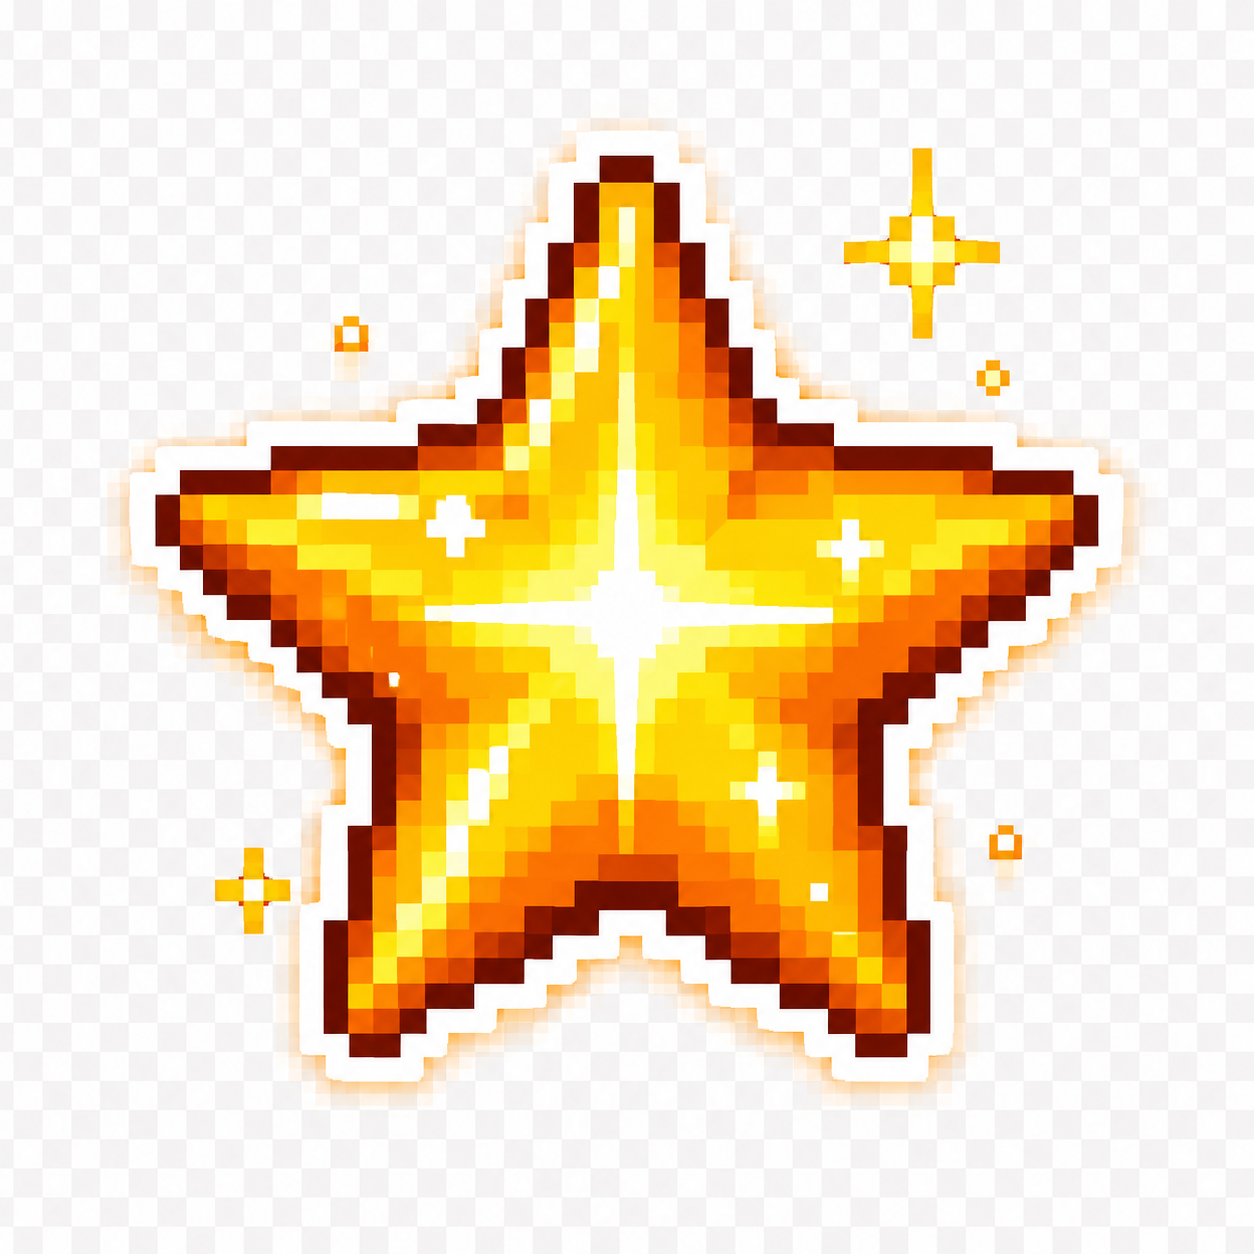
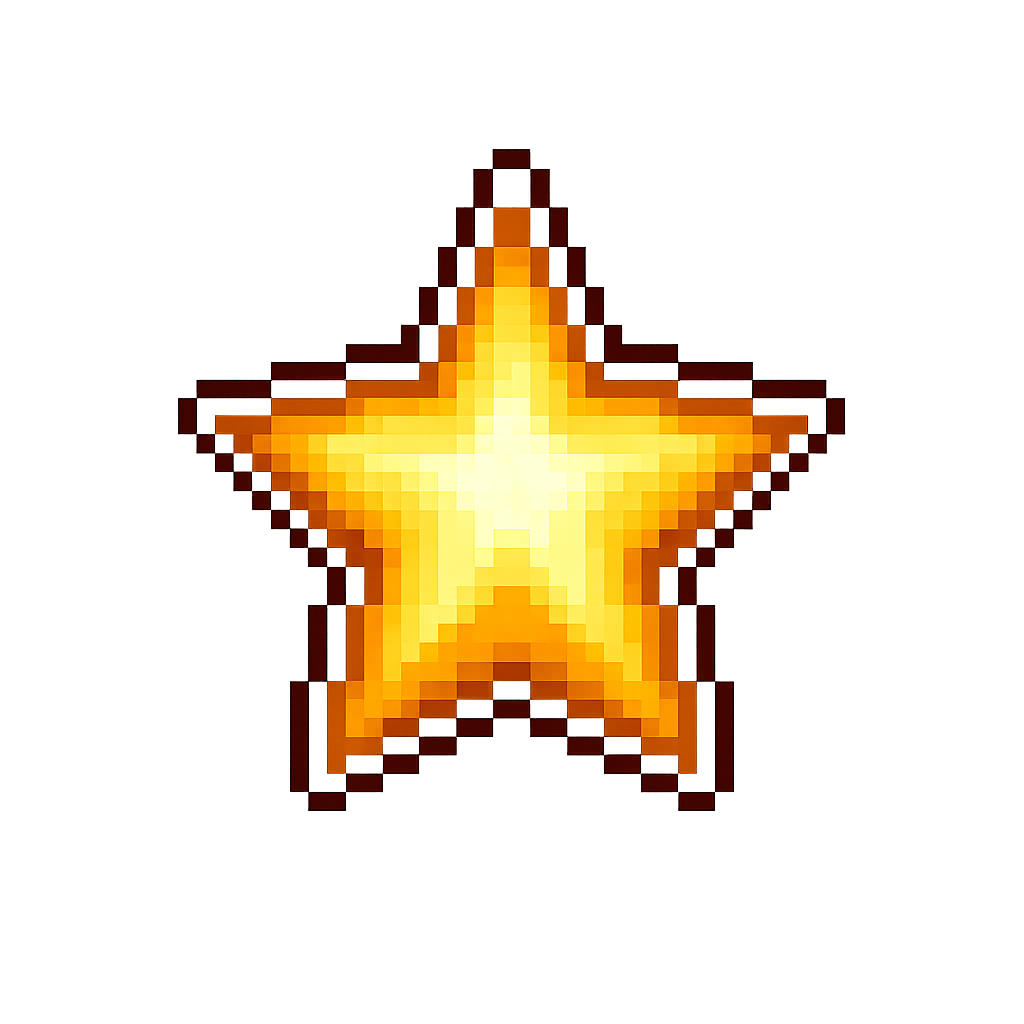
별 이미지 변경, 사운드 추가

diff --git a/script.js b/script.js
@@ -23,6 +23,8 @@ const startButton = document.getElementById('startButton');
 const restartButton = document.getElementById('restartButton');
 const progressButton = document.getElementById('progressButton');
 const soundButton = document.getElementById('soundButton');
+const hudSoundButton = document.getElementById('hudSoundButton');
+const soundButtons = [soundButton, hudSoundButton].filter(Boolean);
 const upgradeCards = document.getElementById('upgradeCards');
 const resultTitle = document.getElementById('resultTitle');
 const resultText = document.getElementById('resultText');
@@ -209,94 +211,140 @@ const upgrades = [
 ];
 
 const audio = {
-  ctx: null,
   enabled: true,
-  ambienceTimer: null,
+  initialized: false,
+  unlocked: false,
+  tracks: {},
   volume: 0.7,
+  bgmVolume: 0.3,
+};
+
+const audioSources = {
+  bgm: 'sounds/bgm.mp3',
+  start: 'sounds/start.mp3',
+  star: 'sounds/star.mp3',
+  upgrade: 'sounds/upgrade.mp3',
+  clear: 'sounds/clear.mp3',
+  nextLevel: 'sounds/next level.mp3',
+  fail: 'sounds/fail.mp3',
+  over: 'sounds/over.mp3',
+};
+
+const soundVolumes = {
+  bgm: audio.bgmVolume,
+  start: 0.85,
+  star: 0.9,
+  upgrade: 0.85,
+  clear: 0.85,
+  nextLevel: 0.85,
+  fail: 0.85,
+  over: 0.9,
 };
 
 function initAudio() {
-  if (audio.ctx) return;
-  audio.ctx = new (window.AudioContext || window.webkitAudioContext)();
+  if (audio.initialized) return;
+
+  Object.entries(audioSources).forEach(([name, src]) => {
+    const track = new Audio(src);
+    track.preload = 'auto';
+    track.loop = name === 'bgm';
+    track.volume = getSoundVolume(name);
+    audio.tracks[name] = track;
+  });
+
+  audio.initialized = true;
 }
 
 function resumeAudio() {
   initAudio();
-  if (audio.ctx.state === 'suspended') audio.ctx.resume();
+  audio.unlocked = true;
 }
 
 function setSoundButtonText() {
-  soundButton.textContent = audio.enabled ? 'SOUND ON' : 'SOUND OFF';
-}
-
-function playTone({ frequency = 440, duration = 0.2, type = 'square', volume = 0.08, slideTo = null }) {
-  if (!audio.enabled) return;
-  resumeAudio();
-
-  const now = audio.ctx.currentTime;
-  const oscillator = audio.ctx.createOscillator();
-  const gain = audio.ctx.createGain();
-
-  oscillator.type = type;
-  oscillator.frequency.setValueAtTime(frequency, now);
-  if (slideTo) oscillator.frequency.exponentialRampToValueAtTime(slideTo, now + duration);
-
-  gain.gain.setValueAtTime(0.0001, now);
-  gain.gain.exponentialRampToValueAtTime(volume * audio.volume, now + 0.02);
-  gain.gain.exponentialRampToValueAtTime(0.0001, now + duration);
-
-  oscillator.connect(gain);
-  gain.connect(audio.ctx.destination);
-  oscillator.start(now);
-  oscillator.stop(now + duration + 0.03);
-}
-
-function playHitSound() { playTone({ frequency: 150, slideTo: 70, duration: 0.18, type: 'sawtooth', volume: 0.12 }); }
-function playStageClearSound() {
-  playTone({ frequency: 392, duration: 0.1, type: 'square', volume: 0.08 });
-  setTimeout(() => playTone({ frequency: 523, duration: 0.12, type: 'square', volume: 0.08 }), 90);
-  setTimeout(() => playTone({ frequency: 784, duration: 0.18, type: 'square', volume: 0.08 }), 180);
-}
-function playStageFailSound() {
-  playTone({ frequency: 180, slideTo: 90, duration: 0.45, type: 'triangle', volume: 0.12 });
-  setTimeout(() => playTone({ frequency: 100, slideTo: 55, duration: 0.35, type: 'sawtooth', volume: 0.08 }), 130);
-}
-function playHoverSound() { playTone({ frequency: 620, duration: 0.045, type: 'square', volume: 0.035 }); }
-function playSelectSound() { playTone({ frequency: 720, duration: 0.08, type: 'square', volume: 0.06 }); }
-function playSaveSound() {
-  playTone({ frequency: 523, duration: 0.08, type: 'square', volume: 0.06 });
-  setTimeout(() => playTone({ frequency: 659, duration: 0.08, type: 'square', volume: 0.06 }), 80);
-}
-function playStarSound() {
-  playTone({ frequency: 880, duration: 0.07, type: 'square', volume: 0.055 });
-  setTimeout(() => playTone({ frequency: 1175, duration: 0.08, type: 'square', volume: 0.045 }), 60);
-}
-function playPillowSound() { playTone({ frequency: 520, slideTo: 760, duration: 0.09, type: 'triangle', volume: 0.055 }); }
-function playPillowHitSound() { playTone({ frequency: 980, slideTo: 620, duration: 0.08, type: 'square', volume: 0.05 }); }
-function playSpecialWarningSound() {
-  playTone({ frequency: 260, slideTo: 170, duration: 0.2, type: 'square', volume: 0.07 });
-}
-
-function startAmbience() {
-  stopAmbience();
-  if (!audio.enabled) return;
-  resumeAudio();
-
-  audio.ambienceTimer = setInterval(() => {
-    if (gameState === 'playing' || gameState === 'upgrade') {
-      const base = Math.random() > 0.5 ? 196 : 220;
-      playTone({ frequency: base, slideTo: base * 0.72, duration: 0.65, type: 'triangle', volume: 0.025 });
-      setTimeout(() => playTone({ frequency: base / 2, duration: 0.35, type: 'sine', volume: 0.018 }), 220);
+  soundButtons.forEach((button) => {
+    if (button === hudSoundButton) {
+      button.textContent = audio.enabled ? '🔊' : '🔇';
+      button.setAttribute('aria-label', audio.enabled ? '사운드 끄기' : '사운드 켜기');
+    } else {
+      button.textContent = audio.enabled ? 'SOUND ON' : 'SOUND OFF';
     }
-  }, 850);
+  });
 }
 
-function stopAmbience() {
-  if (audio.ambienceTimer) {
-    clearInterval(audio.ambienceTimer);
-    audio.ambienceTimer = null;
-  }
+function getSoundVolume(name) {
+  return (soundVolumes[name] ?? 1) * audio.volume;
 }
+
+function updateAudioVolumes() {
+  initAudio();
+  Object.entries(audio.tracks).forEach(([name, track]) => {
+    track.volume = getSoundVolume(name);
+  });
+}
+
+function resetTrack(track) {
+  track.pause();
+  try {
+    track.currentTime = 0;
+  } catch (error) {}
+}
+
+function playSound(name, { restart = true } = {}) {
+  if (!audio.enabled) return;
+  resumeAudio();
+
+  const track = audio.tracks[name];
+  if (!track) return;
+
+  track.volume = getSoundVolume(name);
+  if (restart) {
+    resetTrack(track);
+  }
+
+  const playPromise = track.play();
+  if (playPromise) playPromise.catch(() => {});
+}
+
+function startBgm() {
+  if (!audio.enabled) return;
+  resumeAudio();
+
+  const bgm = audio.tracks.bgm;
+  if (!bgm) return;
+
+  bgm.volume = getSoundVolume('bgm');
+  const playPromise = bgm.play();
+  if (playPromise) playPromise.catch(() => {});
+}
+
+function stopBgm() {
+  const bgm = audio.tracks.bgm;
+  if (!bgm) return;
+
+  resetTrack(bgm);
+}
+
+function stopAllAudio() {
+  Object.values(audio.tracks).forEach((track) => {
+    resetTrack(track);
+  });
+}
+
+function playStartSound() { playSound('start'); }
+function playHitSound() { playSound('fail'); }
+function playStageClearSound() { playSound('clear'); }
+function playStageFailSound() { playSound('over'); }
+function playStarSound() { playSound('star'); }
+function playUpgradeSound() { playSound('upgrade'); }
+function playNextLevelSound() { playSound('nextLevel'); }
+function playHoverSound() {}
+function playSelectSound() {}
+function playSaveSound() {}
+function playPillowSound() {}
+function playPillowHitSound() {}
+function playSpecialWarningSound() {}
+function startAmbience() { startBgm(); }
+function stopAmbience() { stopBgm(); }
 
 function getStage(targetWave = wave) {
   return Math.min(5, Math.ceil(targetWave / 4));
@@ -402,6 +450,7 @@ function setWaveStats() {
 
 function startGame() {
   resumeAudio();
+  playStartSound();
   resetGame();
   gameState = 'playing';
   startPanel.classList.add('hidden');
@@ -448,13 +497,14 @@ function showUpgradePanel() {
     card.addEventListener('mouseenter', playHoverSound);
     card.addEventListener('focus', playHoverSound);
     card.addEventListener('click', () => {
-      playSelectSound();
+      playUpgradeSound();
       upgrade.apply();
       applyWaveDifficulty();
       updateHud();
       upgradePanel.classList.add('hidden');
       gameState = 'playing';
       lastTime = performance.now();
+      setTimeout(playNextLevelSound, 120);
       animationId = requestAnimationFrame(gameLoop);
     });
     upgradeCards.appendChild(card);
@@ -1655,6 +1705,8 @@ canvas.addEventListener('contextmenu', (event) => event.preventDefault());
 
 window.addEventListener('keydown', (event) => { keys[event.key] = true; });
 window.addEventListener('keyup', (event) => { keys[event.key] = false; });
+window.addEventListener('pointerdown', resumeAudio, { once: true, passive: true });
+window.addEventListener('touchstart', resumeAudio, { once: true, passive: true });
 
 function handleStartClick(event) {
   event.preventDefault();
@@ -1669,17 +1721,27 @@ if (progressButton) {
   });
 }
 
-soundButton.addEventListener('click', () => {
+function toggleSound() {
+  resumeAudio();
   audio.enabled = !audio.enabled;
   setSoundButtonText();
-  if (audio.enabled && (gameState === 'playing' || gameState === 'upgrade')) startAmbience();
-  else stopAmbience();
+
+  if (audio.enabled && (gameState === 'playing' || gameState === 'upgrade')) {
+    startAmbience();
+  } else {
+    stopAllAudio();
+  }
+}
+
+soundButtons.forEach((button) => {
+  button.addEventListener('click', toggleSound);
 });
 
 
 if (volumeSlider) {
   volumeSlider.addEventListener('input', () => {
     audio.volume = Number(volumeSlider.value) / 100;
+    updateAudioVolumes();
   });
 }
 

diff --git a/style.css b/style.css
@@ -223,9 +223,29 @@ canvas {
 }
 
 .hud-top-right {
-  top: 14px;
+  top: 58px;
   right: 16px;
   text-align: right;
+}
+
+.sound-toggle {
+  position: absolute;
+  top: 12px;
+  right: 14px;
+  z-index: 28;
+  display: flex;
+  align-items: center;
+  justify-content: center;
+  width: 42px;
+  height: 42px;
+  padding: 0;
+  border-width: 2px;
+  border-radius: 50%;
+  font-size: 20px;
+  line-height: 1;
+  background: rgba(18, 8, 18, 0.72);
+  box-shadow: 3px 3px 0 rgba(7, 4, 10, 0.8);
+  pointer-events: auto;
 }
 
 #starText,
@@ -728,11 +748,20 @@ canvas {
   }
 
   .hud-top-right {
+    top: calc(max(8px, env(safe-area-inset-top)) + 46px);
     right: max(8px, env(safe-area-inset-right));
   }
 
   .hud-time {
     font-size: 17px;
+  }
+
+  .sound-toggle {
+    top: max(8px, env(safe-area-inset-top));
+    right: max(8px, env(safe-area-inset-right));
+    width: 38px;
+    height: 38px;
+    font-size: 18px;
   }
 
   .touch-joystick {

diff --git a/index.html b/index.html
@@ -57,6 +57,8 @@
           <span id="finalWaveText" class="visually-hidden">∞</span>
         </section>
 
+        <button id="hudSoundButton" class="sound-toggle" type="button" aria-label="사운드 끄기">🔊</button>
+
         <div id="touchJoystick" class="touch-joystick" aria-label="모바일 이동 조이스틱">
           <div class="joystick-ring">
             <span class="joy-arrow joy-up">▲</span>